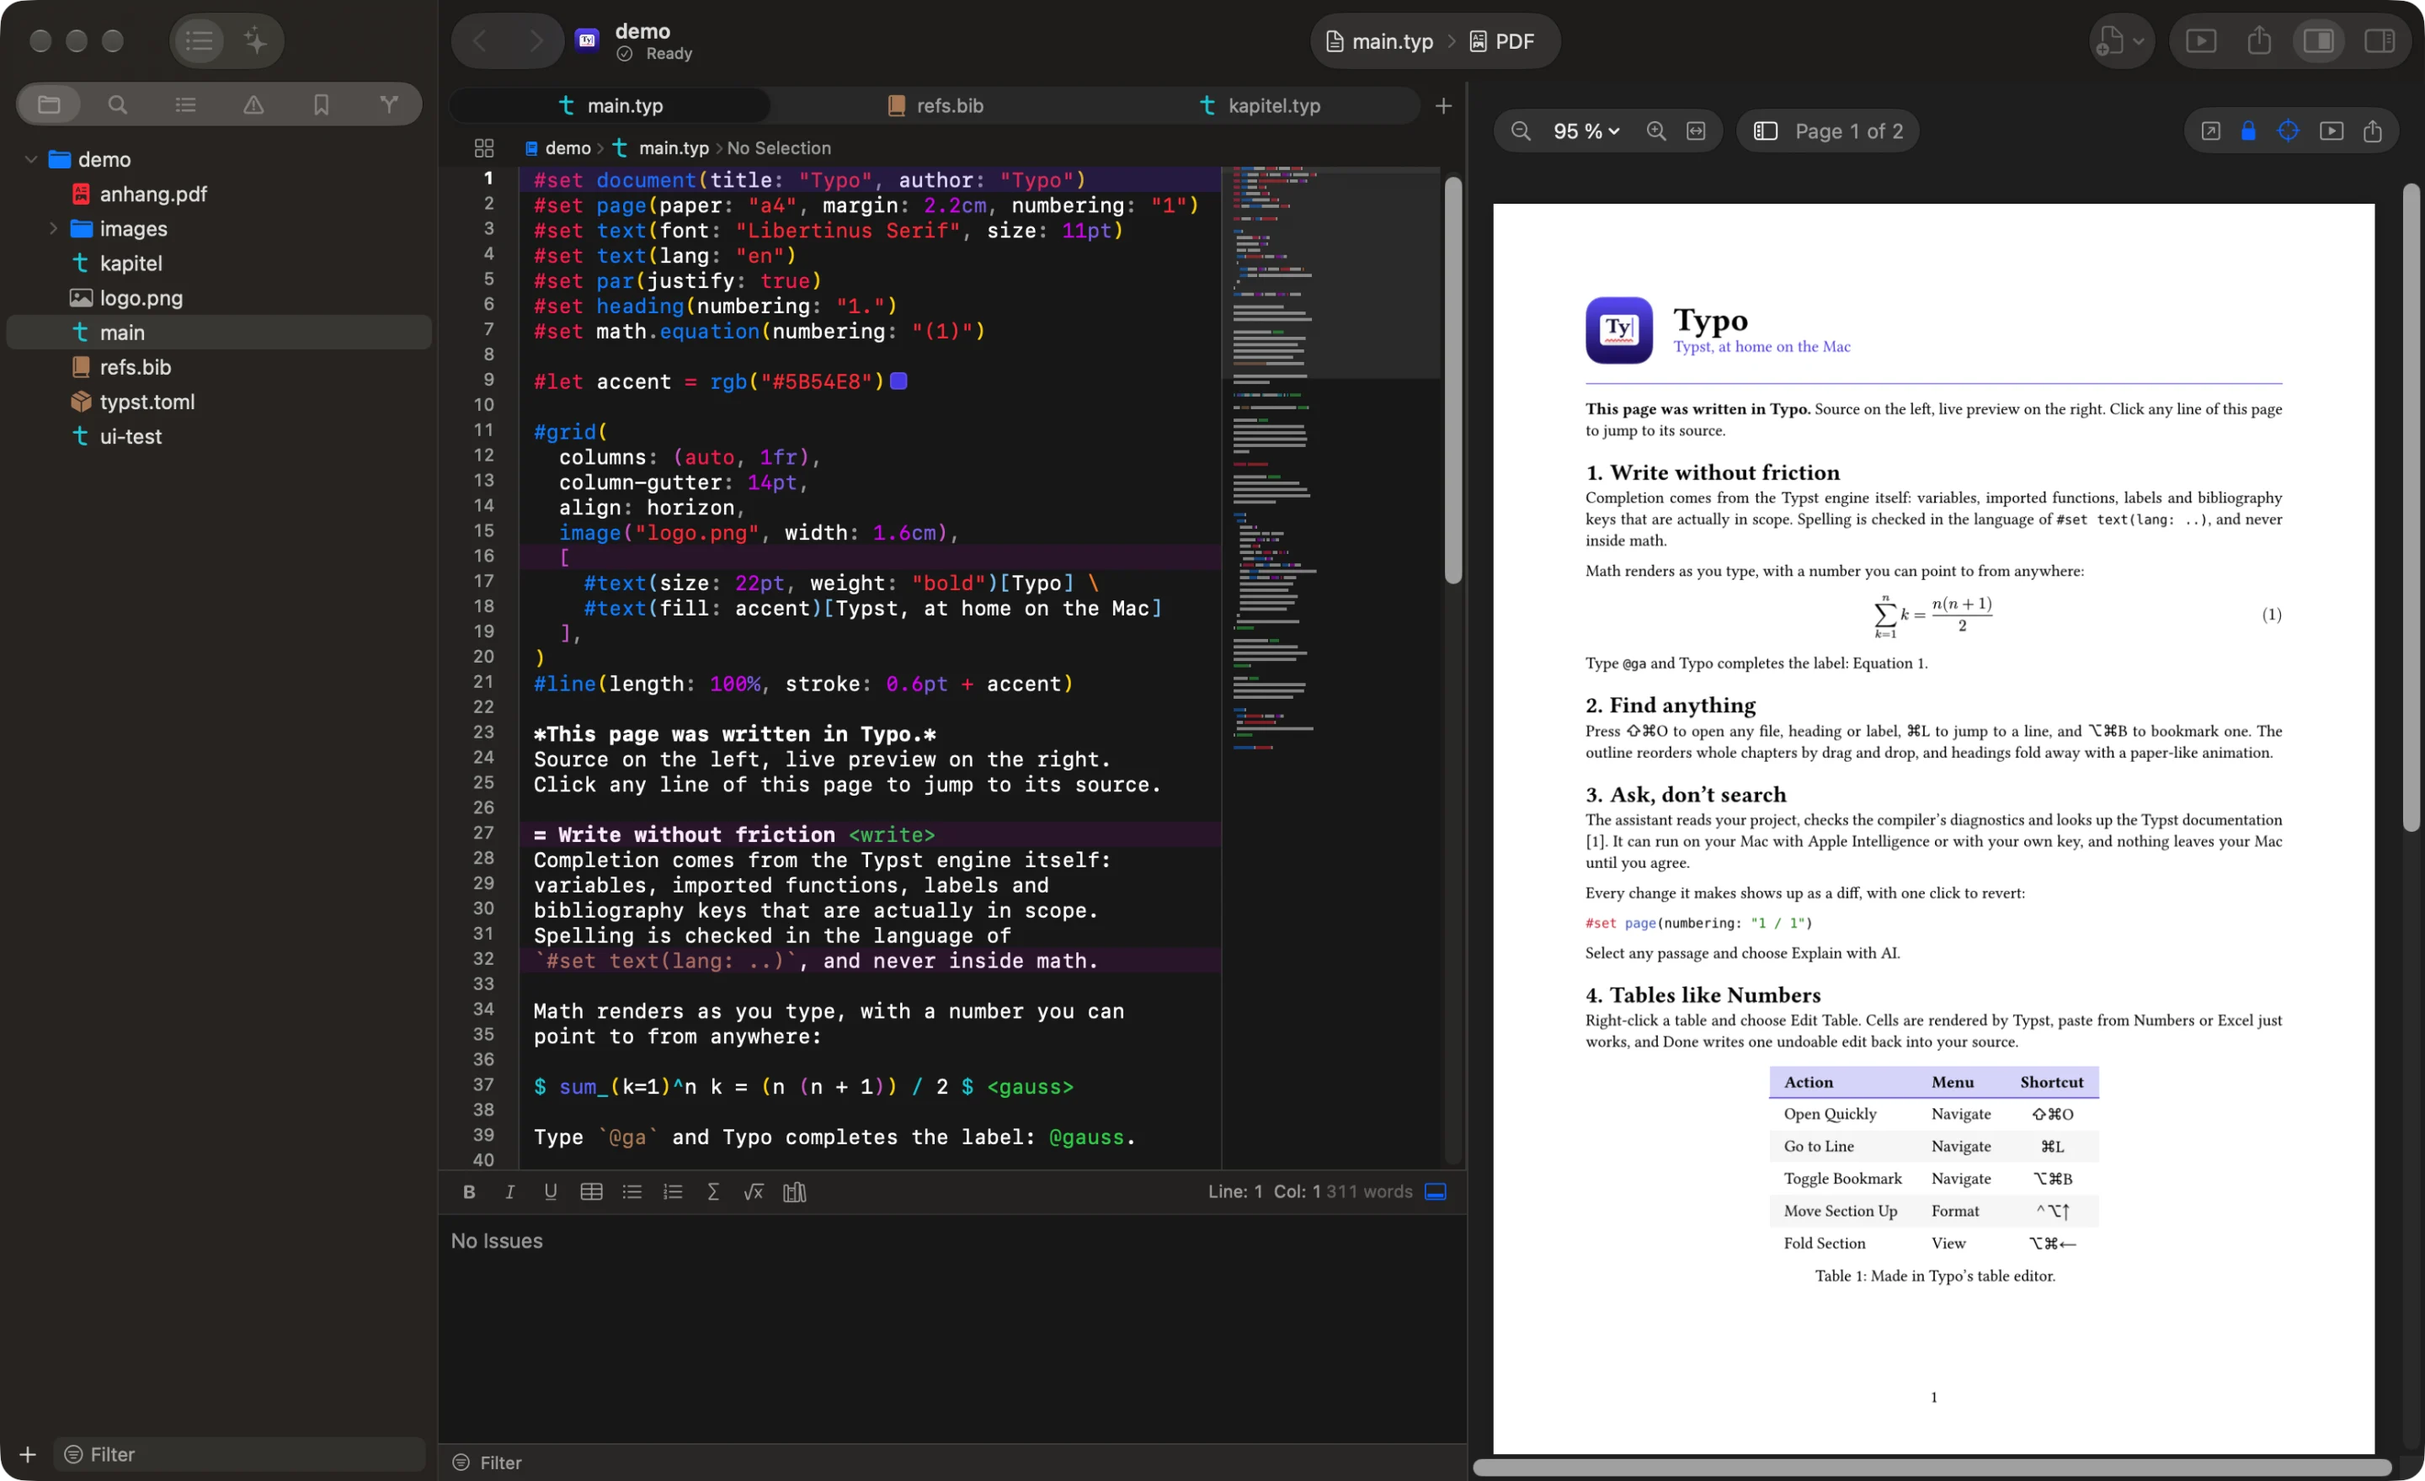
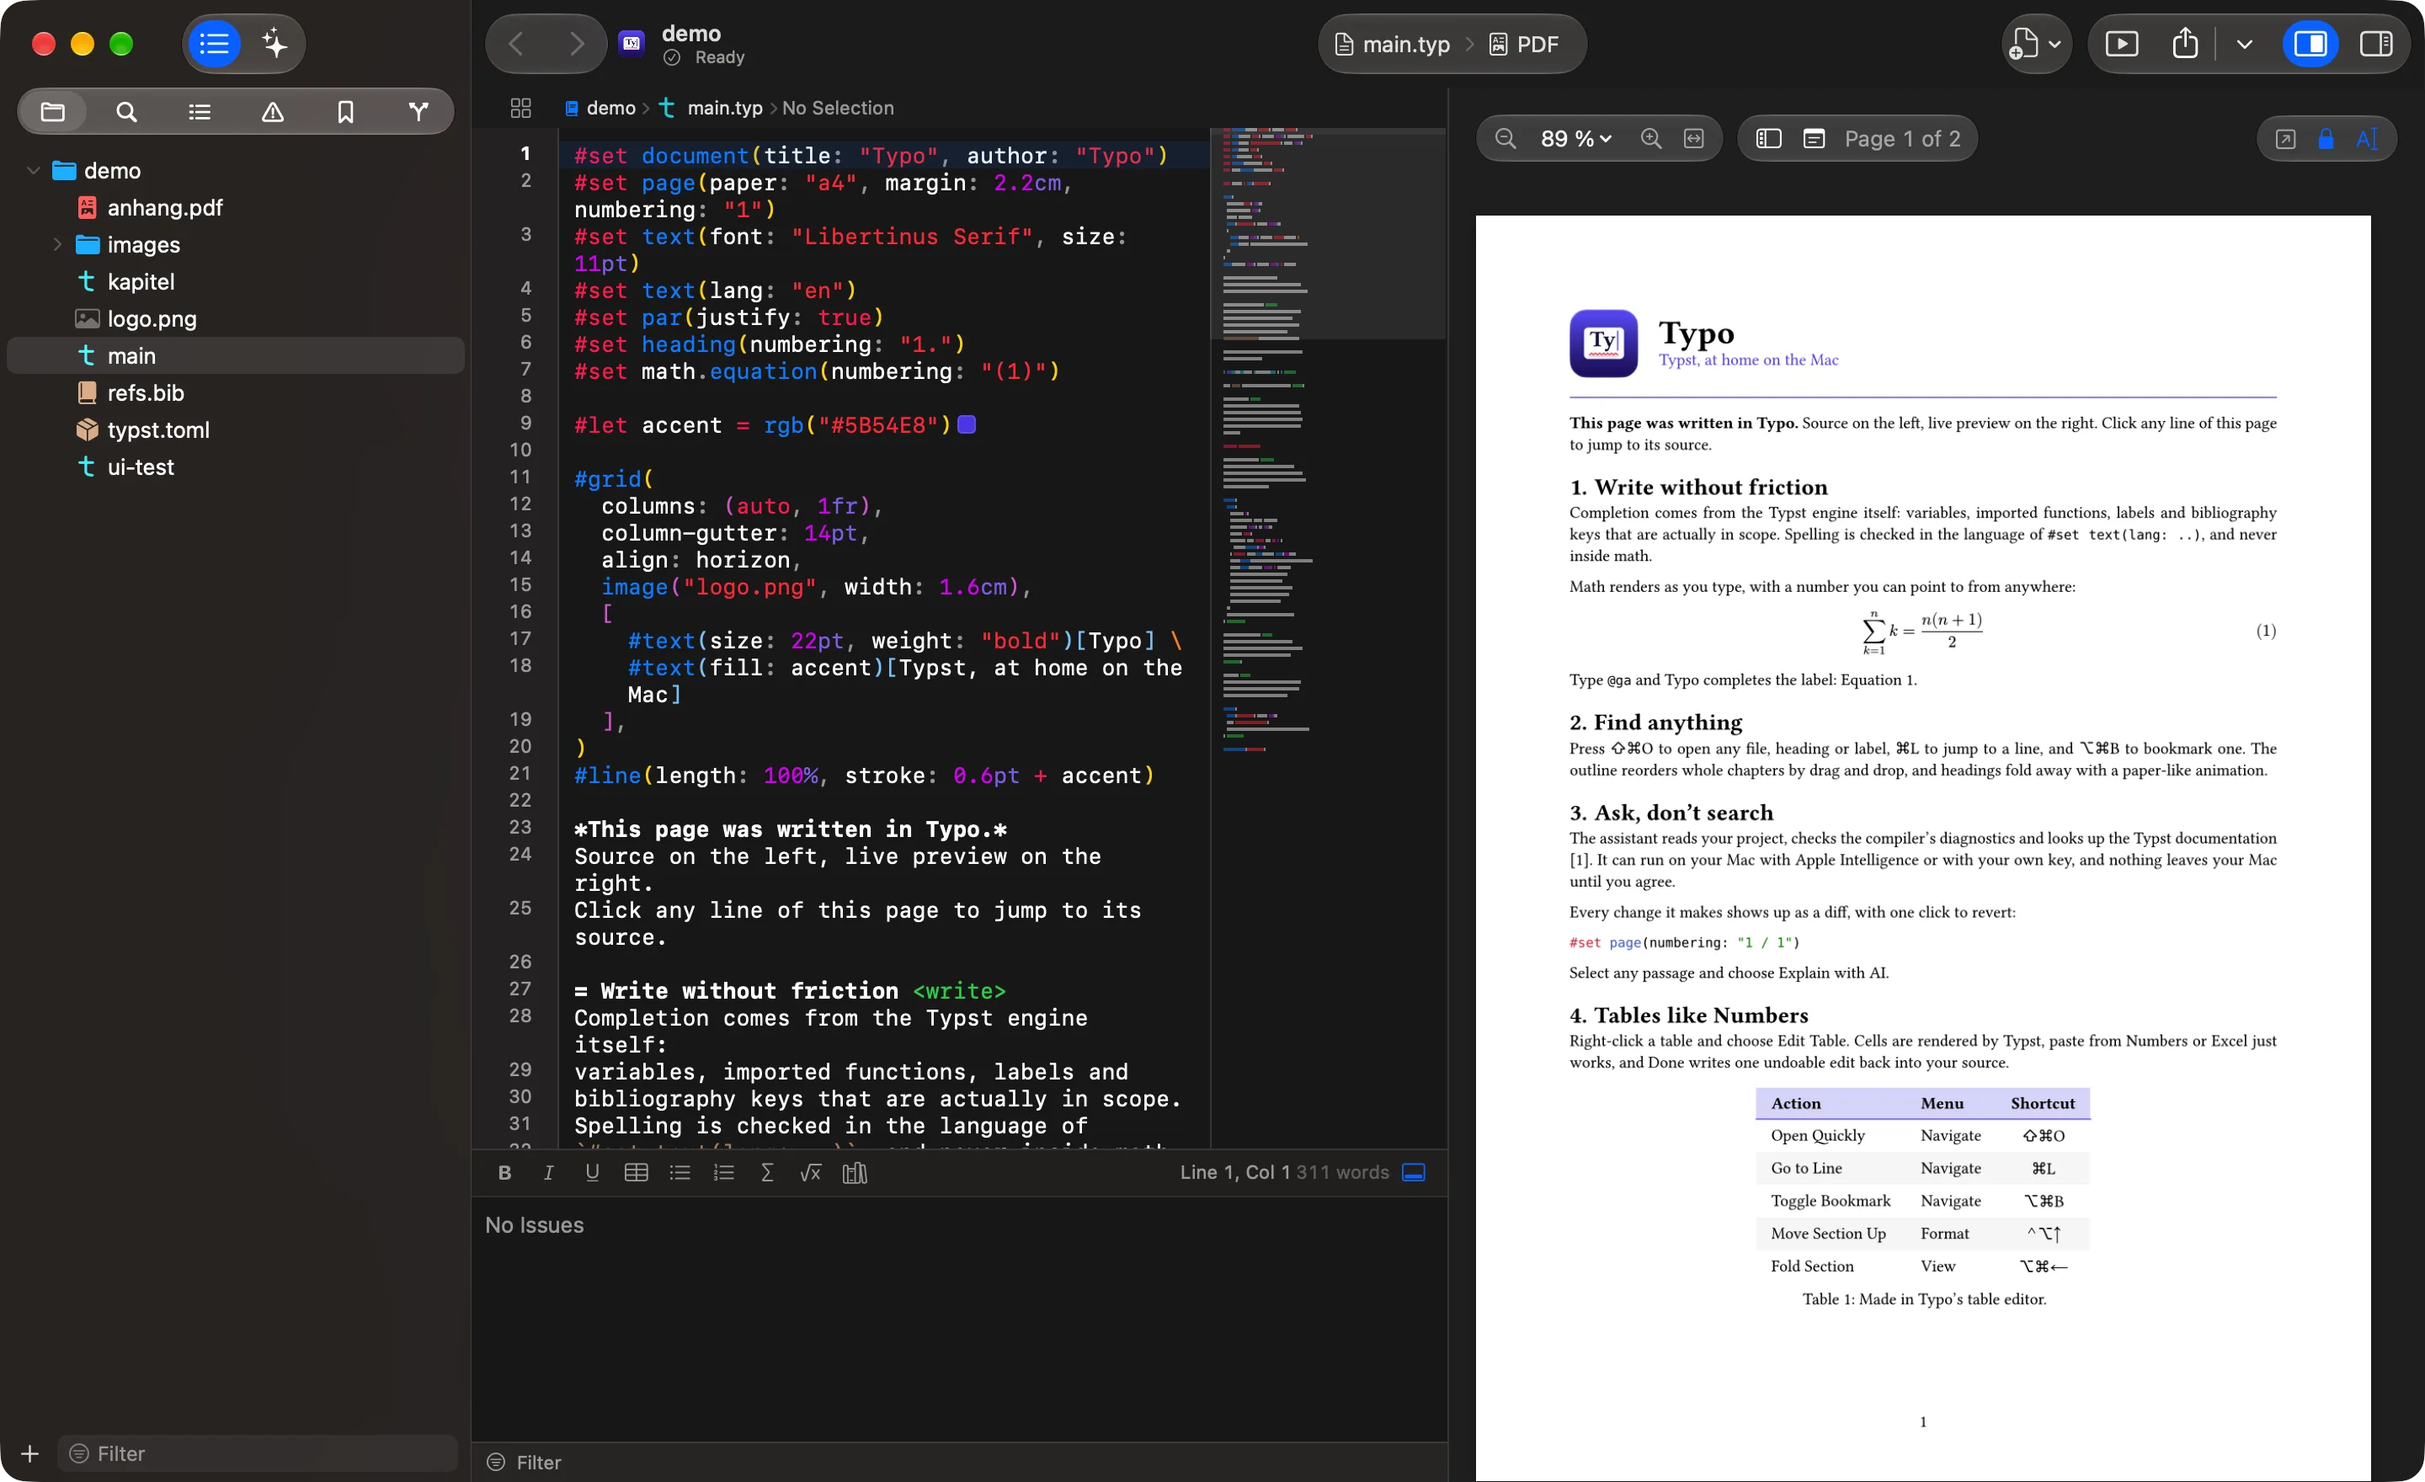
New screenshots: main window light and dark, presenter notes, the English presenter view; debug-only -screenshotWindowFrame for repeatable shots

diff --git a/docs/guide/preview-export.html b/docs/guide/preview-export.html
@@ -83,7 +83,7 @@
       <h2 id="presentation">Presentation mode</h2>
       <p><span class="path">View › Start Presentation</span> (<kbd>⌥</kbd><kbd>⌘</kbd><kbd>Return</kbd>), or the Play button in the toolbar, shows the pages full screen, one at a time. With a second display, such as an iPad with Sidecar, the slides go to that display and the presenter view opens on the display of your project window, as in Keynote. With one display, the slides fill it. <span class="path">View › Start Presentation with Presenter View</span> (<kbd>⌥</kbd><kbd>⇧</kbd><kbd>⌘</kbd><kbd>Return</kbd>) also opens the presenter view on a single display, so you can rehearse.</p>
       <figure class="shot">
-        <img width="1100" height="700" src="images/presenter-view.webp" alt="The presenter view: a green bar at the top, the clock and a timer, the current slide on the left, the next slide on the right, and the presenter notes in a white panel below" loading="lazy" decoding="async">
+        <img width="900" height="573" src="images/presenter-view.webp" alt="The presenter view: a green bar at the top, the clock and a timer, the current slide on the left, the next slide on the right, and the presenter notes in a white panel below" loading="lazy" decoding="async">
         <figcaption>The presenter view shows the current and the next slide, your notes, the time and a timer.</figcaption>
       </figure>
       <p>The presenter view works like Keynote’s presenter display:</p>
@@ -115,6 +115,11 @@
       </div>
 
       <h2 id="notes">Presenter notes</h2>
+      <figure class="shot">
+        <img class="shot-light" width="900" height="550" src="images/presenter-notes-light.webp" alt="A slide deck in Typo: a presenter note card under the first slide, a small yellow note in a line of the second, note marks beside the line numbers, and the notes strip under the preview" loading="lazy" decoding="async">
+        <img class="shot-dark" width="900" height="550" src="images/presenter-notes-dark.webp" alt="A slide deck in Typo: a presenter note card under the first slide, a small yellow note in a line of the second, note marks beside the line numbers, and the notes strip under the preview" loading="lazy" decoding="async">
+        <figcaption>Notes show as cards in the editor, and the notes of the visible slide sit under the preview.</figcaption>
+      </figure>
       <p>Typo stores a note in the source as <code>#metadata("…") &lt;note&gt;</code>. It never appears in the PDF and needs no package. Notes from Touying (<code>#speaker-note[…]</code>) and Polylux (<code>#pdfpc.speaker-note(…)</code>) work too.</p>
       <ul>
         <li>To add a note, choose <span class="path">Format › Add Presenter Note</span> (<kbd>⌥</kbd><kbd>⌘</kbd><kbd>P</kbd>) or the item at the top of the editor’s context menu. A note card opens below the line, ready to type in.</li>

diff --git a/docs/de/index.html b/docs/de/index.html
@@ -16,7 +16,7 @@
   <link rel="preconnect" href="https://fonts.googleapis.com">
   <link rel="preconnect" href="https://fonts.gstatic.com" crossorigin>
   <link href="https://fonts.googleapis.com/css2?family=Instrument+Serif:ital@0;1&display=swap" rel="stylesheet">
-  <link rel="stylesheet" href="../style.css?v=3">
+  <link rel="stylesheet" href="../style.css?v=6">
   <link rel="stylesheet" href="../fold-demo.css">
   <link rel="alternate" hreflang="en" href="https://scholzdev.github.io/typo/">
   <link rel="alternate" hreflang="de" href="https://scholzdev.github.io/typo/de/">
@@ -73,7 +73,7 @@
       <div class="scene hero-scene" data-scene data-start="0.75">
         <div class="scene-pin hero-pin">
           <figure class="hero-shot shot">
-            <img src="../assets/hero.webp" width="2880" height="1759" fetchpriority="high"
+            <img src="../assets/hero.webp" width="2880" height="1760" fetchpriority="high"
                  alt="Das Hauptfenster von Typo: links der Dateinavigator, in der Mitte eine Typst-Quelldatei mit Syntaxhervorhebung und Minimap, daneben die Live-PDF-Vorschau mit gesetzter Tabelle und Abbildung, rechts der Inspektor mit den Eigenschaften von Abbildung und Tabelle.">
           </figure>
         </div>
@@ -127,7 +127,7 @@
             <h3>Moderatornotizen wie in Keynote</h3>
             <p>Füge jeder Folie per Kontextmenü oder Tastenkürzel eine Notiz hinzu und schreib sie in einem kleinen Editor direkt im Quelltext. Die Notizen der sichtbaren Folie stehen unter der Vorschau, auch die aus Touying und Polylux, und ein Klick entwirft sie mit KI. Präsentiere auf einem zweiten Bildschirm oder iPad mit einer Referentenansicht wie in Keynote.</p>
             </div>
-            <div class="card-art"><div class="notes-art" aria-hidden="true"><div class="slide">Ergebnisse<i></i></div><div class="strip"><b>Notizen · Folie 4</b>Zuerst die Achsen erklären, dann den Ausreißer bei 2019.</div></div></div>
+            <div class="card-art"><img src="../assets/notes-light.webp" alt="Der Editor mit einer Notiz-Karte unter einer Folie und einer kleinen Notiz in einer Textzeile" loading="lazy" width="700" height="560"></div>
           </li>
           <li class="card reveal">
             <span class="card-icon" aria-hidden="true">⇧⌘O</span>
@@ -209,7 +209,7 @@
       <div class="dark-pin">
         <h2 class="dark-q" id="dark-title">Lieber dunkel?</h2>
         <figure class="dark-device" aria-hidden="true">
-          <div class="shot dark-shot"><img src="../assets/hero.webp" width="2880" height="1759" alt="" loading="lazy"></div>
+          <div class="shot dark-shot"><img src="../assets/hero.webp" width="2880" height="1760" alt="" loading="lazy"></div>
         </figure>
         <p class="dark-a">Kein Problem.</p>
       </div>

diff --git a/docs/index.html b/docs/index.html
@@ -25,7 +25,7 @@
   <link rel="preconnect" href="https://fonts.googleapis.com">
   <link rel="preconnect" href="https://fonts.gstatic.com" crossorigin>
   <link href="https://fonts.googleapis.com/css2?family=Instrument+Serif:ital@0;1&display=swap" rel="stylesheet">
-  <link rel="stylesheet" href="style.css?v=3">
+  <link rel="stylesheet" href="style.css?v=6">
   <link rel="stylesheet" href="fold-demo.css">
   <link rel="alternate" hreflang="en" href="https://scholzdev.github.io/typo/">
   <link rel="alternate" hreflang="de" href="https://scholzdev.github.io/typo/de/">
@@ -81,7 +81,7 @@
       <div class="scene hero-scene" data-scene data-start="0.75">
         <div class="scene-pin hero-pin">
           <figure class="hero-shot shot">
-            <img src="assets/hero.webp" width="2880" height="1759" fetchpriority="high"
+            <img src="assets/hero.webp" width="2880" height="1760" fetchpriority="high"
                  alt="The Typo main window: a file navigator on the left, a Typst source file with syntax highlighting and a minimap in the middle, the live PDF preview with a typeset table and figure, and the inspector showing figure and table properties on the right.">
           </figure>
         </div>
@@ -135,7 +135,7 @@
             <h3>Presenter notes, like Keynote</h3>
             <p>Add a note to any slide from the context menu or a shortcut and write it in a small editor right in the source. The notes of the visible slide sit under the preview, Touying and Polylux notes included, and one click drafts them with AI. Present on a second display or an iPad with a presenter view like Keynote’s.</p>
             </div>
-            <div class="card-art"><div class="notes-art" aria-hidden="true"><div class="slide">Results<i></i></div><div class="strip"><b>Notes · Slide 4</b>Explain the axes first, then the outlier in 2019.</div></div></div>
+            <div class="card-art"><img src="assets/notes-light.webp" alt="The editor with a presenter note card under a slide and a small note in a line of text" loading="lazy" width="700" height="560"></div>
           </li>
           <li class="card reveal">
             <span class="card-icon" aria-hidden="true">⇧⌘O</span>
@@ -217,7 +217,7 @@
       <div class="dark-pin">
         <h2 class="dark-q" id="dark-title">Want it dark?</h2>
         <figure class="dark-device" aria-hidden="true">
-          <div class="shot dark-shot"><img src="assets/hero.webp" width="2880" height="1759" alt="" loading="lazy"></div>
+          <div class="shot dark-shot"><img src="assets/hero.webp" width="2880" height="1760" alt="" loading="lazy"></div>
         </figure>
         <p class="dark-a">No problem.</p>
       </div>

diff --git a/docs/style.css b/docs/style.css
@@ -188,12 +188,6 @@ html.js .hero-shot { transform: rotateX(calc((1 - var(--p, 1)) * 16deg)) scale(c
 .card.wide { grid-column: span 2; display: grid; grid-template-columns: 1fr 1fr; gap: 28px; align-items: center; overflow: hidden; }
 .card-art { margin: -38px -36px -40px 0; align-self: stretch; display: flex; align-items: flex-end; justify-content: flex-end; }
 .card-art img { width: 100%; height: 100%; object-fit: cover; object-position: left top; border-top-left-radius: 14px; box-shadow: 0 0 0 1px var(--tile-line); margin-top: 38px; }
-/* A drawn slide with its notes strip, for the presenter-notes tile. */
-.notes-art { margin-top: 38px; width: 100%; border-top-left-radius: 14px; background: var(--bg); box-shadow: 0 0 0 1px var(--tile-line); padding: 22px 0 0 22px; }
-.notes-art .slide { aspect-ratio: 16 / 9; background: var(--tile); border-radius: 8px 0 0 0; box-shadow: 0 0 0 1px var(--tile-line); padding: 16px 18px; font-weight: 600; font-size: 15px; }
-.notes-art .slide i { display: block; margin-top: 12px; height: 54%; border-radius: 6px; background: linear-gradient(135deg, color-mix(in srgb, var(--accent) 18%, transparent), color-mix(in srgb, #c04fd8 14%, transparent)); }
-.notes-art .strip { background: var(--tile); border-top: 1px solid var(--tile-line); padding: 12px 18px 16px; font-size: 14px; line-height: 1.45; }
-.notes-art .strip b { display: block; font-size: 11.5px; font-weight: 600; color: var(--muted); margin-bottom: 4px; letter-spacing: 0.01em; }
 .card h3 { margin: 0; font-size: 24px; line-height: 1.15; font-weight: 600; letter-spacing: -0.02em; }
 .card.wide h3 { font-size: 32px; max-width: 16ch; }
 .card p { margin: 12px 0 0; color: var(--muted); font-size: 17px; line-height: 1.47; max-width: 46ch; }

diff --git a/App/App.swift b/App/App.swift
@@ -181,8 +181,32 @@ struct ProjectWindow: View {
         }
         .focusedSceneValue(\.project, project)
         .onOpenURL { ProjectOpener(recents: recents, openWindow: openWindow).open($0) }
+        #if DEBUG
+        .background(ScreenshotFrame())
+        #endif
     }
 
     @Environment(\.openWindow) private var openWindow
     @Environment(\.dismissWindow) private var dismissWindow
 }
+
+#if DEBUG
+/// `-screenshotWindowFrame "x y w h"` (screen points, origin bottom left) puts a project window there once, so the
+/// docs screenshots come out the same size on every run.
+private struct ScreenshotFrame: NSViewRepresentable {
+    func makeNSView(context: Context) -> Probe { Probe() }
+    func updateNSView(_ nsView: Probe, context: Context) {}
+
+    final class Probe: NSView {
+        private var done = false
+        override func viewDidMoveToWindow() {
+            super.viewDidMoveToWindow()
+            guard !done, let window, let spec = UserDefaults.standard.string(forKey: "screenshotWindowFrame") else { return }
+            let v = spec.split(separator: " ").compactMap { Double($0) }
+            guard v.count == 4 else { return }
+            done = true
+            DispatchQueue.main.async { window.setFrame(NSRect(x: v[0], y: v[1], width: v[2], height: v[3]), display: true) }
+        }
+    }
+}
+#endif

diff --git a/docs/guide/getting-started.html b/docs/guide/getting-started.html
@@ -100,8 +100,8 @@
       <p>The preview sits beside the editor. Settings › General › Live preview chooses when it updates: While Typing, or On Save (autosave counts as a save).</p>
       <p>Click a spot in the preview to jump to the source that produced it. For zoom, thumbnails and the other controls, see <a href="preview-export.html">Preview and export</a>.</p>
       <figure class="shot">
-        <img class="shot-light" width="900" height="611" src="images/main-window-light.webp" alt="The main window with the file tree, the editor and the live preview side by side" loading="lazy" decoding="async">
-        <img class="shot-dark" width="900" height="611" src="images/main-window-dark.webp" alt="The main window with the file tree, the editor and the live preview side by side" loading="lazy" decoding="async">
+        <img class="shot-light" width="900" height="550" src="images/main-window-light.webp" alt="The main window with the file tree, the editor and the live preview side by side" loading="lazy" decoding="async">
+        <img class="shot-dark" width="900" height="550" src="images/main-window-dark.webp" alt="The main window with the file tree, the editor and the live preview side by side" loading="lazy" decoding="async">
         <figcaption>The main window</figcaption>
       </figure>
 
